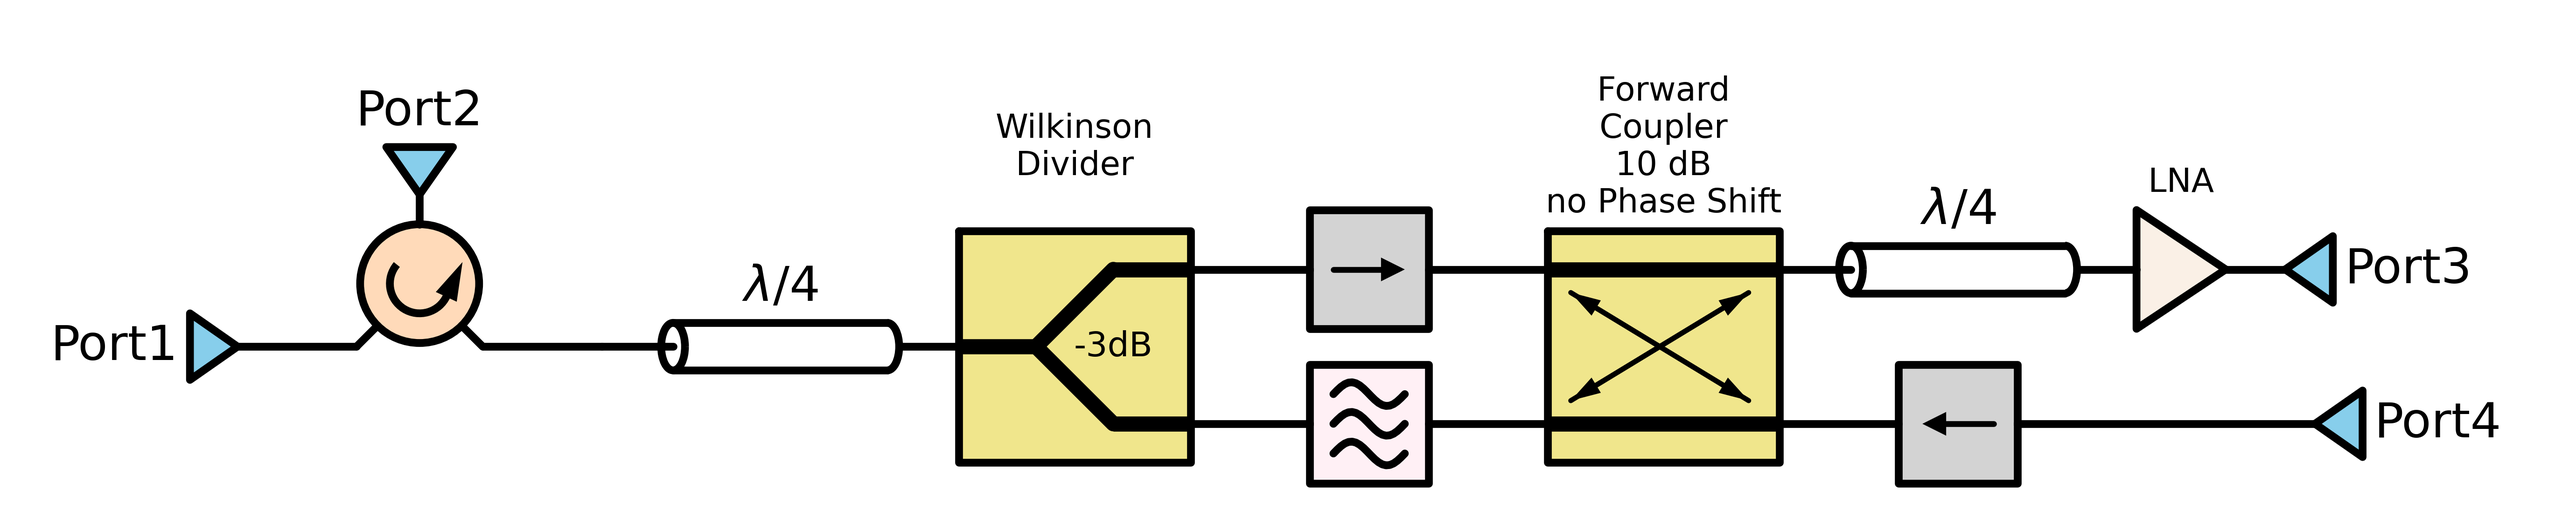
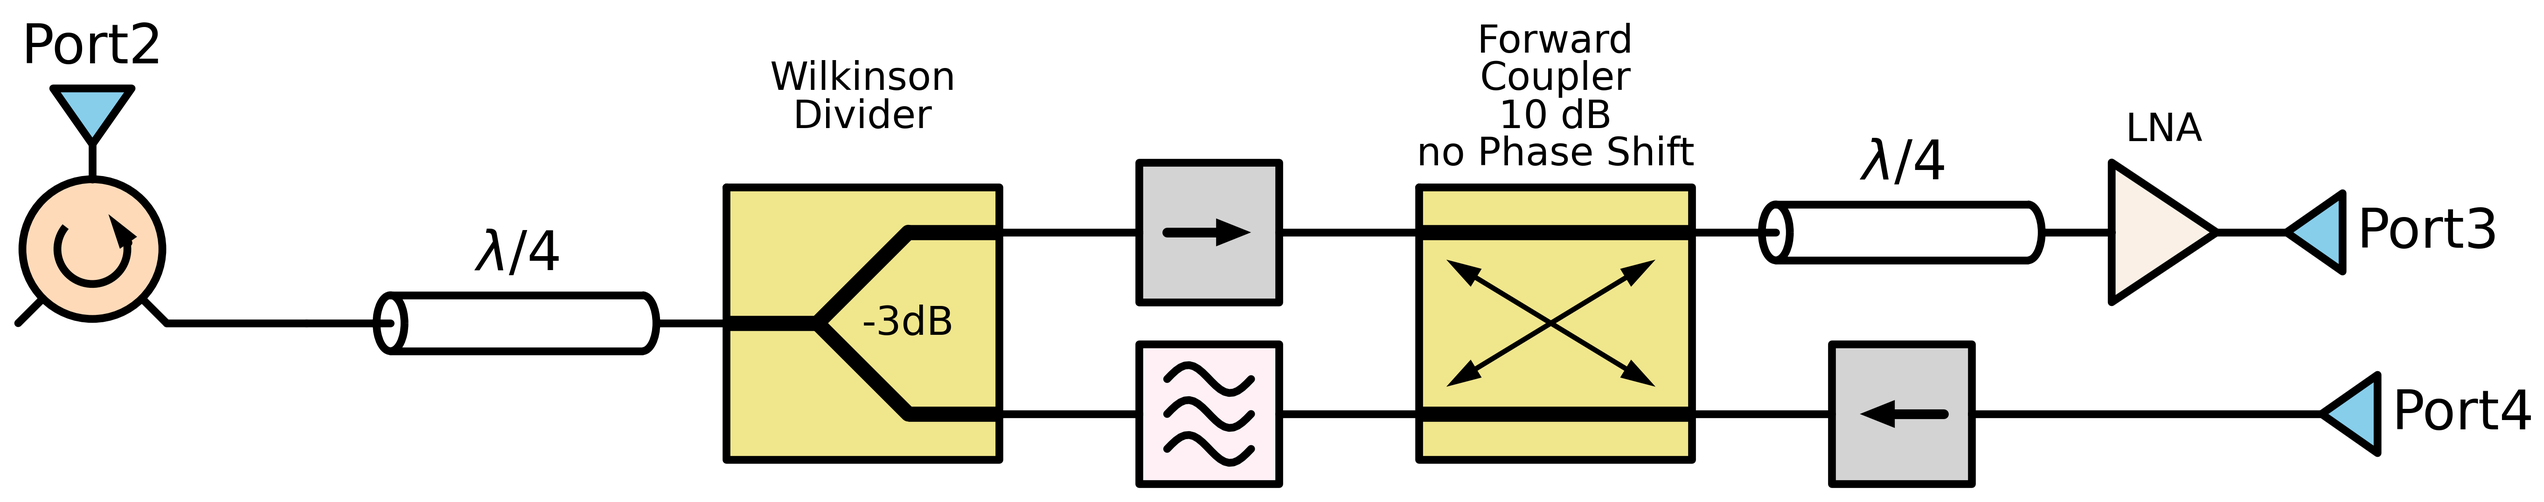
auto

diff --git a/modules/RFsymbols.py b/modules/RFsymbols.py
@@ -3,6 +3,26 @@ import schemdraw.elements as elm
 from numpy import sqrt, cos, sin, pi
 
 
+       
+class Transline(elm.Element2Term):
+    def __init__(self, width = 4/20 ,length = 2,linecolor="black" ,*d, **kwargs):
+        '''
+        A transmission line as black bar 
+        Behaves similar to a resistor twoport
+        
+        '''
+        gap = (math.nan, math.nan)  # Put a gap in a path
+        super().__init__(*d, **kwargs)
+        height = width  # Resistor height
+        length = length    # Full (inner) length of resistor is 1.0 data unit
+        self.segments.append(Segment( [(0, 0), gap, (length, 0)],color="black"))
+        self.segments.append(Segment(
+            [(0, 0), (0, height), (length, height),
+             (length, -height), (0, -height), (0, 0), gap,(length, 0)],color="none"))
+        self.fill("black")
+
+
+
 class Circulator(elm.Element):
     def __init__(self, direction='cw', *d, **kwargs):
         '''
@@ -250,46 +270,51 @@ class Attenuator(elm.Element):
 if __name__ == "__main__":
     import schemdraw as schem
     import schemdraw.dsp as dsp
-    d = schem.Drawing()
-    d += Port()
-    d += elm.Line(l=4)
-    d += elm.Resistor().down()
-    d += elm.Ground()
-    d += Reflection(color="r",dx= -1,dy=-1.5).label(r"$\Gamma_2$",fontsize=22)
-    d.draw()
-    exit(0)
     
-    #d += (rat :=Ratrace().anchor('sum'))
-    #d += Port().label("In1",'right').fill('skyblue').at(rat.in1).down()
-    #d += Port(theta=30).label("In2").fill('skyblue').at(rat.in2)
-    #d += Port(theta=-30).label(r"$\Sigma$").fill('skyblue').at(rat.sum)
-    #d += Port().label(r"$\Delta$",'left').fill('skyblue').at(rat.delta).up()
-    #d.draw()
-    #plt.show()
-    #exit(0)
+    choice = 3
+    
+    d = schem.Drawing()
+    if choice == 1:
+	    d += Port()
+	    d += elm.Line(l=4)
+	    d += elm.Resistor().down()
+	    d += elm.Ground()
+	    d += Reflection(color="r",dx= -1,dy=-1.5).label(r"$\Gamma_2$",fontsize=22)
+	    d.draw()
+    elif choice == 2:    
+        d += (rat :=Ratrace().anchor('sum'))
+        d += Port().label("In1",'right').fill('skyblue').at(rat.in1).down()
+        d += Port(theta=30).label("In2",'left').fill('skyblue').at(rat.in2)
+        d += Port(theta=-30).label(r"$\Sigma$",'left').fill('skyblue').at(rat.sum)
+        d += Port().label(r"$\Delta$",'left').fill('skyblue').at(rat.delta).up()
+        d.draw()
+    elif choice == 3:     
+        d += ( cir1 := Circulator('cw').flip().anchor('p1').fill('peachpuff') )
+        d += Port(direction='right').up().at(cir1.p3).label("Port2").fill('skyblue')
+        d += elm.Line(l=1).at(cir1.p2)
+        d += elm.Coax(l=1,radius= 0.2).label(r"$\lambda/4$")
+        d += (wilk := Splitter(size=1.3).label("Wilkinson\nDivider\n",fontsize=10).fill('khaki'))
+        d += elm.Line(l=1)
+        d += Isolator().fill('lightgray')
+        d += elm.Line(l=1)
+        d += (cou := Coupler(size=1.3).label("Forward\nCoupler\n10 dB\nno Phase Shift", fontsize=10).fill('khaki'))
+        d.push()
+        d += elm.Line(l=1).at(wilk.out2)
+        d += dsp.Filter().fill('lavenderblush')
+        d += elm.Line(l=1).right()
+        d.pop()
+        d += elm.Coax(l=1,radius=0.2).label(r"$\lambda/4$")
+        d += dsp.Amp().label("LNA", fontsize=10).fill('linen')
+        d += elm.Line(l=0.5)
+        d += Port().left().label("Port3", loc='right').fill('skyblue')
+        d += elm.Line(l=1).at(cou.p3)
+        d += Isolator().reverse().fill('lightgray')
+        d += elm.Line(l=2.5)
+        d += Port().left().label("Port4", loc='right').fill('skyblue')
+        d.draw()
+        d.save('example.png',dpi=600)
+       
 
-    d += ( cir1 := Circulator('cw').flip().anchor('p1').fill('peachpuff') )
-    d += Port(direction='right').up().at(cir1.p3).label("Port2").fill('skyblue')
-    d += elm.Line(l=1).at(cir1.p2)
-    d += elm.Coax(l=1,radius= 0.2).label(r"$\lambda/4$")
-    d += (wilk := Splitter(size=1.3).label("Wilkinson\nDivider\n",fontsize=10).fill('Khaki'))
-    d += elm.Line(l=1)
-    d += Isolator().fill('lightgray')
-    d += elm.Line(l=1)
-    d += (cou := Coupler(size=1.3).label("Forward\nCoupler\n10 dB\nno Phase Shift", fontsize=10).fill('Khaki'))
-    d.push()
-    d += elm.Line(l=1).at(wilk.out2)
-    d += dsp.Filter().fill('lavenderblush')
-    d += elm.Line(l=1).right()
-    d.pop()
-    d += elm.Coax(l=1,radius=0.2).label(r"$\lambda/4$")
-    d += dsp.Amp().label("LNA", fontsize=10).fill('linen')
-    d += elm.Line(l=0.5)
-    d += Port().left().label("Port3", loc='right').fill('skyblue')
-    d += elm.Line(l=1).at(cou.p3)
-    d += Isolator().reverse().fill('lightgray')
-    d += elm.Line(l=2.5)
-    d += Port().left().label("Port4", loc='right').fill('skyblue')
-    d.save('example.png',dpi=600)
+        
 
 
